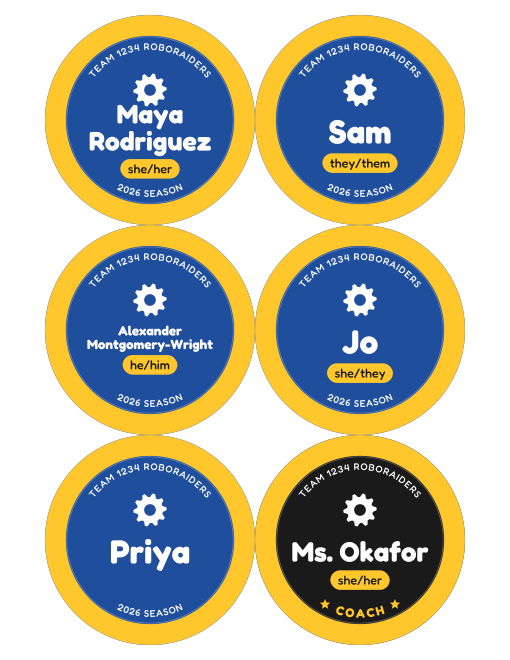
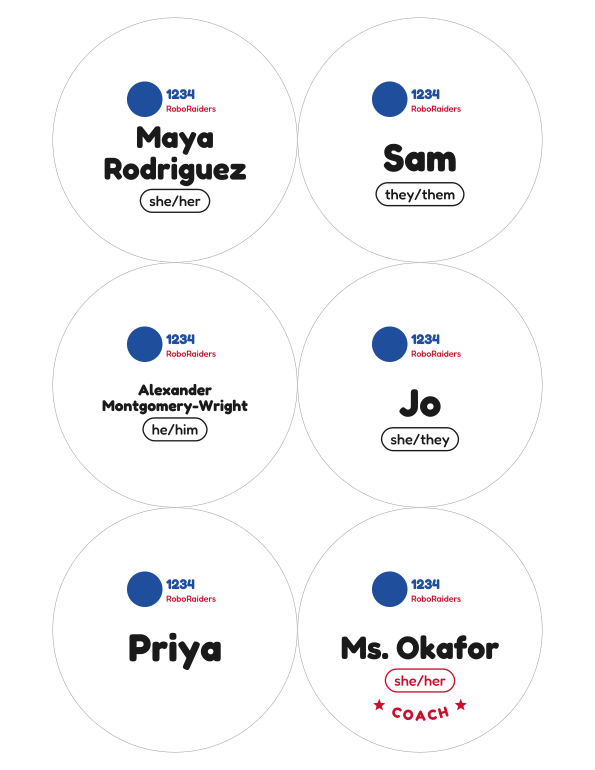
Buttons: white background with a thin cut ring, drop team arcs
The team name and number are in the logo, so the --team and --tagline arcs
are gone and the logo gets that space. Backgrounds are white to save ink,
with a thin grey ring at the 3.5 in cut line. Pronoun pills are outlined
instead of filled. Coaches keep their arced role label, now in red.

Claude-Session: https://claude.ai/code/session_0166DUE8Cxz6qqfwefvAvocF

diff --git a/robotics-buttons/make_buttons.py b/robotics-buttons/make_buttons.py
@@ -4,7 +4,7 @@
 Reads a CSV of names, pronouns and roles, writes one SVG per button and lays
 them all out on printable pages in a single PDF.
 
-    python make_buttons.py people.csv --logo logo.png --team "Team 1234"
+    python make_buttons.py people.csv --logo logo.png
 
 All text is converted to vector outlines (no fonts needed to view or print the
 SVGs), and the logo is embedded, so every SVG is self-contained.
@@ -101,34 +101,6 @@ class Font:
         return "\n".join(out)
 
 
-# --- colours -------------------------------------------------------------------
-
-def hex_rgb(c):
-    c = c.lstrip("#")
-    if len(c) == 3:
-        c = "".join(ch * 2 for ch in c)
-    return tuple(int(c[i:i + 2], 16) / 255 for i in (0, 2, 4))
-
-
-def luminance(c):
-    def lin(v):
-        return v / 12.92 if v <= 0.03928 else ((v + 0.055) / 1.055) ** 2.4
-    r, g, b = (lin(v) for v in hex_rgb(c))
-    return 0.2126 * r + 0.7152 * g + 0.0722 * b
-
-
-def ink_on(bg):
-    """Black or white, whichever reads better on bg."""
-    return "#1a1a1a" if luminance(bg) > 0.4 else "#ffffff"
-
-
-def shade(c, f):
-    """Darken (f<0) or lighten (f>0) a colour."""
-    rgb = hex_rgb(c)
-    rgb = [v + (1 - v) * f if f > 0 else v * (1 + f) for v in rgb]
-    return "#" + "".join(f"{round(v * 255):02x}" for v in rgb)
-
-
 # --- the button ---------------------------------------------------------------
 
 def gear(radius, teeth=10, fill="#fff"):
@@ -163,50 +135,31 @@ def fit_name(font, name, max_w, max_size, min_two_line):
 def button_svg(person, cfg, fonts):
     bold, medium = fonts
     coach = person["role"].lower() not in STUDENT_ROLES
-    bg = cfg.coach_color if coach else cfg.color
-    accent = cfg.coach_accent if coach else cfg.accent
-    ink = ink_on(bg)
-    accent_ink = ink_on(accent)
+    ink = cfg.color
+    accent = cfg.coach_color if coach else cfg.color
 
     cut_r = cfg.cut * PT / 2
     face_r = cfg.face * PT / 2
     safe_r = cfg.safe * PT / 2
     u = safe_r / 97.2  # layout below was tuned for a 2.7in safe area
 
-    el = []
-    # background bleeds all the way to the cut line
-    el.append(f'<circle r="{cut_r:.2f}" fill="{bg}"/>')
-    # the wrap-around edge: a ring in the accent colour, starting just inside
-    # the visible face so a slightly off-centre press still looks deliberate
-    ring_in = safe_r + (face_r - safe_r) * 0.35
-    el.append(f'<circle r="{(cut_r + ring_in) / 2:.2f}" fill="none" stroke="{accent}" '
-              f'stroke-width="{cut_r - ring_in:.2f}"/>')
-    el.append(f'<circle r="{ring_in - 1.2 * u:.2f}" fill="none" stroke="{ink}" '
-              f'stroke-opacity="0.35" stroke-width="{0.8 * u:.2f}"/>')
+    # white background (saves ink); a thin ring marks where to cut
+    el = [f'<circle r="{cut_r:.2f}" fill="#fff"/>',
+          f'<circle r="{cut_r - 0.25:.2f}" fill="none" stroke="{cfg.cut_line}" stroke-width="0.5"/>']
 
-    # top arc: team name
-    arc_size = 11.5 * u
-    arc_r = safe_r - 13 * u
-    if cfg.team:
-        el.append(f'<g fill="{ink}">{medium.arc(cfg.team.upper(), arc_size, arc_r, True, 0.08)}</g>')
-
-    # bottom arc: role for coaches, optional tagline for students
-    bottom = person["role"].upper() if coach else (cfg.tagline or "").upper()
-    if bottom:
-        if coach:
-            size, sp = 15 * u, 0.18
-            el.append(f'<g fill="{accent}">{bold.arc(bottom, size, safe_r - 4 * u, False, sp)}</g>')
-            # stars either side of the label
-            span = (bold.width(bottom, size) + sp * size * (len(bottom) - 1)) / (safe_r - 4 * u)
-            for sgn in (-1, 1):
-                a = math.pi / 2 + sgn * (span / 2 + 0.17)
-                r = safe_r - 4 * u - bold.cap_height(size) / 2
-                el.append(star(r * math.cos(a), r * math.sin(a), 6.5 * u, accent))
-        else:
-            el.append(f'<g fill="{ink}">{medium.arc(bottom, arc_size, safe_r - 5 * u, False, 0.08)}</g>')
+    # coaches: role arced along the bottom between two stars
+    if coach:
+        label = person["role"].upper()
+        size, sp, r = 15 * u, 0.18, safe_r - 4 * u
+        el.append(f'<g fill="{accent}">{bold.arc(label, size, r, False, sp)}</g>')
+        span = (bold.width(label, size) + sp * size * (len(label) - 1)) / r
+        for sgn in (-1, 1):
+            a = math.pi / 2 + sgn * (span / 2 + 0.17)
+            rr = r - bold.cap_height(size) / 2
+            el.append(star(rr * math.cos(a), rr * math.sin(a), 6.5 * u, accent))
 
     # logo
-    lw, lh, ly = 74 * u, 40 * u, -36 * u
+    lw, lh, ly = 104 * u, 56 * u, -42 * u
     if cfg.logo_data:
         el.append(f'<image x="{-lw / 2:.2f}" y="{ly - lh / 2:.2f}" width="{lw:.2f}" '
                   f'height="{lh:.2f}" preserveAspectRatio="xMidYMid meet" '
@@ -215,7 +168,7 @@ def button_svg(person, cfg, fonts):
         el.append(f'<g transform="translate(0 {ly:.2f})">{gear(lh / 2, fill=ink)}</g>')
 
     # name
-    name_y = 14 * u
+    name_y = 18 * u
     max_w = 2 * math.sqrt(safe_r ** 2 - (name_y + 4 * u) ** 2) * 0.86
     lines, size = fit_name(bold, person["name"], max_w, 40 * u, 26 * u)
     cap = bold.cap_height(size)
@@ -230,7 +183,7 @@ def button_svg(person, cfg, fonts):
         el.append(f'<path fill="{ink}" d="{bold.line(lines[1], size, 0, baseline)}"/>')
     text_bottom = baseline + 0.2 * size  # allow for descenders
 
-    # pronouns, in a pill just under the name
+    # pronouns, in an outlined pill just under the name
     if person["pronouns"]:
         text = person["pronouns"]
         psize = 15 * u
@@ -239,9 +192,11 @@ def button_svg(person, cfg, fonts):
         pmax = 2 * math.sqrt(max(safe_r ** 2 - (py + 12 * u) ** 2, 0)) * 0.78
         psize = min(psize, psize * pmax / medium.width(text, psize))
         pw = medium.width(text, psize) + 18 * u
+        sw = 1.4 * u
         el.append(f'<rect x="{-pw / 2:.2f}" y="{py - ph / 2:.2f}" width="{pw:.2f}" '
-                  f'height="{ph:.2f}" rx="{ph / 2:.2f}" fill="{accent}"/>')
-        el.append(f'<path fill="{accent_ink}" '
+                  f'height="{ph:.2f}" rx="{ph / 2:.2f}" fill="none" stroke="{accent}" '
+                  f'stroke-width="{sw:.2f}"/>')
+        el.append(f'<path fill="{accent}" '
                   f'd="{medium.line(text, psize, 0, py + medium.cap_height(psize) / 2)}"/>')
 
     if cfg.guides:
@@ -294,9 +249,6 @@ def page_svg(buttons, paper, cut, slots):
     body = []
     for els, (x, y) in zip(buttons, slots):
         body.append(wrap_svg(els, cut, x * PT, y * PT))
-        # hairline cut guide in case the background is white
-        body.append(f'<circle cx="{(x + cut / 2) * PT:.2f}" cy="{(y + cut / 2) * PT:.2f}" '
-                    f'r="{cut * PT / 2:.2f}" fill="none" stroke="#999" stroke-width="0.3"/>')
     return ('<svg xmlns="http://www.w3.org/2000/svg" '
             'xmlns:xlink="http://www.w3.org/1999/xlink" '
             f'width="{pw}in" height="{ph}in" viewBox="0 0 {pw * PT} {ph * PT}">\n'
@@ -328,12 +280,9 @@ def main():
                                 formatter_class=argparse.RawDescriptionHelpFormatter)
     p.add_argument("csv", help="CSV with columns name, pronouns, role (optional: copies)")
     p.add_argument("--logo", help="PNG (or JPG/SVG) logo; a gear is drawn if omitted")
-    p.add_argument("--team", default="", help="text arced along the top, e.g. 'Team 1234 RoboRaiders'")
-    p.add_argument("--tagline", default="", help="text arced along the bottom of student buttons, e.g. '2026 Season'")
-    p.add_argument("--color", default="#1f4e9c", help="student background colour")
-    p.add_argument("--accent", default="#ffc72c", help="student ring and pronoun pill colour")
-    p.add_argument("--coach-color", default="#1a1a1a", help="coach background colour")
-    p.add_argument("--coach-accent", default="#ffc72c", help="coach ring, label and pill colour")
+    p.add_argument("--color", default="#1a1a1a", help="text colour (default near-black)")
+    p.add_argument("--coach-color", default="#c8102e", help="colour of the COACH label and pronoun pill on coach buttons")
+    p.add_argument("--cut-line", default="#999999", help="colour of the cut ring (default grey)")
     p.add_argument("--cut", type=float, default=3.5, help="cut circle diameter, inches (default 3.5)")
     p.add_argument("--face", type=float, default=3.0, help="visible button face diameter, inches (default 3.0)")
     p.add_argument("--safe", type=float, default=2.7, help="keep text and logo inside this diameter (default 2.7)")

diff --git a/robotics-buttons/README.md b/robotics-buttons/README.md
@@ -29,13 +29,12 @@ install GTK, or run this under WSL.)
 2. Run it:
 
    ```sh
-   python make_buttons.py people.csv --logo logo.png \
-       --team "Team 1234 RoboRaiders" --tagline "2026 Season"
+   python make_buttons.py people.csv --logo logo.png
    ```
 
 3. Print `out/buttons.pdf` at **100% / "Actual size"**, not "Fit to page", or
    the circles won't be 3.5 in. Print one page first and check it against
-   your cutter.
+   your cutter, then cut along the thin grey ring.
 
 Output goes to `out/`:
 
@@ -47,12 +46,15 @@ Output goes to `out/`:
 
 ## The design
 
-- **Students**: team colour background, logo, big name, pronoun pill,
-  team name arced across the top and an optional tagline across the bottom.
-- **Coaches/mentors**: dark background with the role (`COACH`, `MENTOR`)
-  arced across the bottom in the accent colour, so they're easy to spot.
+White background to save ink, with a thin grey ring at the cut line.
+
+- **Students**: logo across the top, big name, pronouns in an outlined pill.
+- **Coaches/mentors**: the same, plus their role (`COACH`, `MENTOR`) arced
+  along the bottom between two stars, with the role and pill in red so
+  they're easy to spot.
 - If you don't pass `--logo`, a gear is drawn as a stand-in. A PNG with a
-  transparent background looks best.
+  transparent background looks best. The logo gets the top third of the
+  button, so it's the place for the team name and number.
 
 ## Sizes
 
@@ -60,12 +62,11 @@ The defaults are for a 3 in button press with a 3.5 in cut circle:
 
 | Option | Default | What it is |
 | --- | --- | --- |
-| `--cut` | 3.5 | Diameter of the paper circle you cut out. The background colour bleeds all the way to here. |
+| `--cut` | 3.5 | Diameter of the paper circle you cut out, marked by the grey ring. |
 | `--face` | 3.0 | Diameter of the flat front of the finished button. Everything outside this wraps around the edge. |
 | `--safe` | 2.7 | Logo and text stay inside this circle so nothing important ends up on the curve. |
 
-The accent-colour ring starts just inside the face edge, so a slightly
-off-centre press still looks intentional. Add `--guides` to draw the face
+Add `--guides` to draw the face
 (pink) and safe area (blue) as dashed circles while you check the fit with a
 test print; leave it off for the real run.
 
@@ -75,8 +76,9 @@ button and pass those; the layout scales to match.
 ## Other options
 
 ```
---color / --accent              student background and ring/pill colours (hex)
---coach-color / --coach-accent  same for coaches
+--color                         text colour (hex, default near-black)
+--coach-color                   coach label and pill colour (default red)
+--cut-line                      cut ring colour (default grey)
 --blanks N                      add N spares with no name (for new members or mistakes)
 --paper letter|a4               page size (6 buttons per page either way at 3.5 in)
 --margin / --gap                page margin and space between circles, inches
